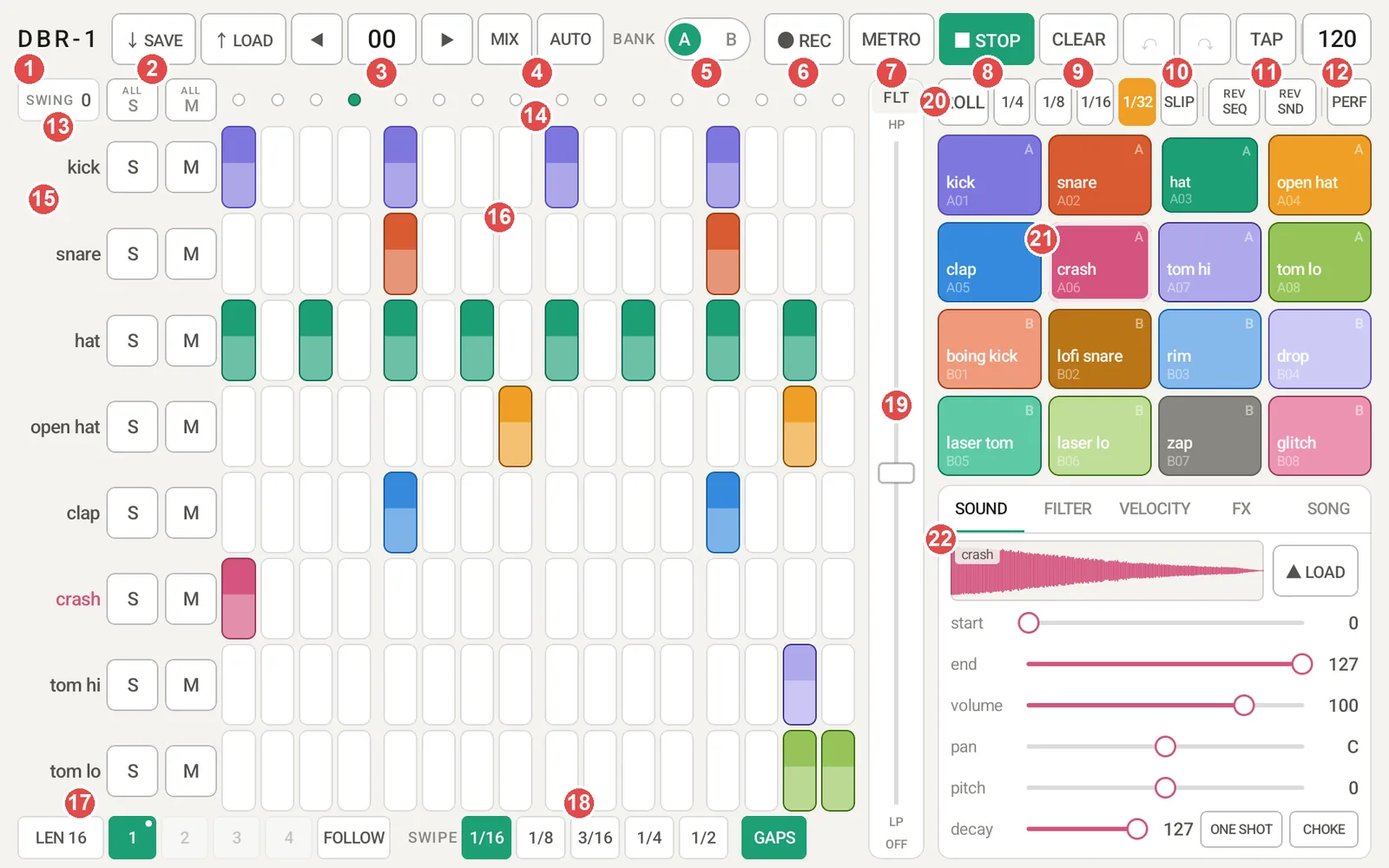
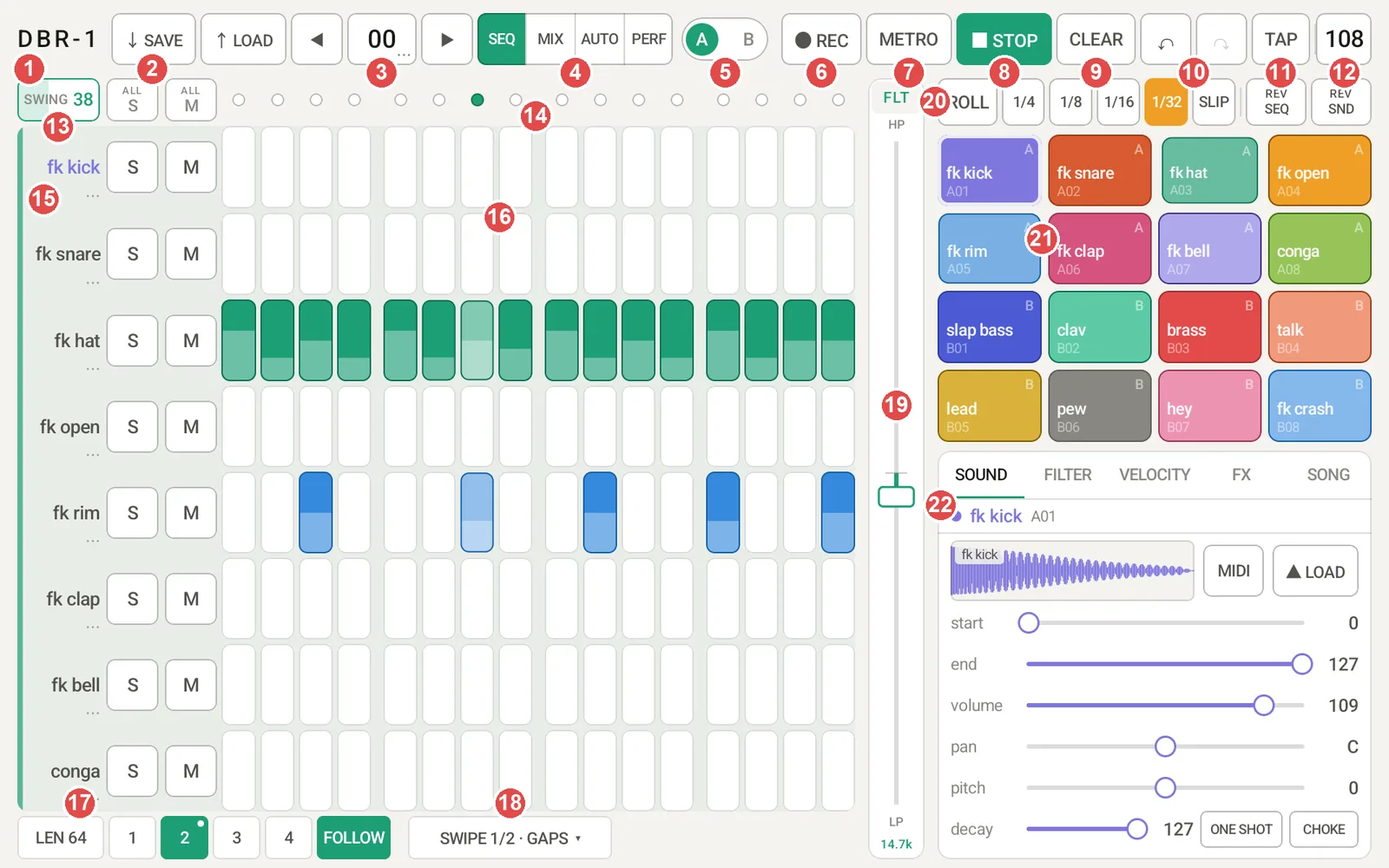
説明書: タブレットの導線の見直し（SEQ / MIX / AUTO / PERF・Settings…・SWIPE・SWING など、全体図）
Claude-Session: https://claude.ai/code/session_014nrG8LAda3EPv8TQp5hzGz

diff --git a/dbr1/manual/ja.html b/dbr1/manual/ja.html
@@ -42,11 +42,11 @@
 <figure><img src="img/tablet_overview.webp" alt="タブレットの画面"></figure>
 <table>
 <tr><th class="n">#</th><th>名前</th><th>はたらき</th></tr>
-<tr><td class="n"><span class="num">1</span></td><td>ロゴ</td><td>タップでメニュー: この説明書（Manual）、MIDI の設定（MIDI…）、オーディオの入出力（Audio I/O…）、オートメーションの動きの表示（Animate automation）、トラック名に触れたとき・ステップを入れたときに音を鳴らすか（Sound on track tap / Sound on step input）、STOP の後の PLAY を頭から / 続きから（After STOP）、再生中のパターンの切り替えのタイミング（Pattern switch）、スマートフォンと同じ配置にする（Phone layout）、アプリの情報（About）</td></tr>
+<tr><td class="n"><span class="num">1</span></td><td>ロゴ</td><td>タップでメニュー: この説明書（<b>Manual</b>）、デモソング（<b>Demo songs…</b>）、ジャンルのテンプレート（<b>Templates…</b>）、設定（<b>Settings…</b>）、このアプリについて（<b>About</b>）。<b>Settings…</b> には、MIDI の設定（MIDI…）・オーディオの入出力（Audio I/O…）、STOP の後の PLAY を頭から / 続きから（After STOP）、再生中のパターンの切り替えのタイミング（Pattern switch）、トラック名に触れたとき・ステップを入れたときに音を鳴らすか（Sound on track tap / Sound on step input）、オートメーションの動きの表示（Animate automation）、スマートフォンと同じ配置にする（Phone layout）が、それぞれ短い説明つきで並びます。初めて起動したときは、デモ曲を聴く / テンプレートから始める / そのまま始める、を選ぶカードが出ます</td></tr>
 <tr><td class="n"><span class="num">2</span></td><td>SAVE / LOAD</td><td>プロジェクト・パターン・キットの保存と読み込み（→ <a href="#save">10</a>）。LOAD の Templates… でジャンルの定番ビート（→ <a href="#templates">2</a>）、Demo songs… でデモソング（→ <a href="#demosongs">2</a>）</td></tr>
 <tr><td class="n"><span class="num">3</span></td><td>パターン番号</td><td>◀ ▶ で切り替え（00〜99）。数字のタップで直接入力、長押しでコピー / ペースト / 消去（FX だけのコピー / ペーストも）</td></tr>
-<tr><td class="n"><span class="num">4</span></td><td>MIX / AUTO</td><td>MIX = ステップの画面とミキサーの切り替え（→ <a href="#mixer">ミキサー</a>）、AUTO = オートメーションの画面（→ <a href="#automation">オートメーション</a>）。ミキサー・AUTO・PERF の画面では、端末の「戻る」でその画面を閉じます</td></tr>
-<tr><td class="n"><span class="num">5</span></td><td>BANK A / B</td><td>表示するトラック（A01〜A08 / B01〜B08）の切り替え</td></tr>
+<tr><td class="n"><span class="num">4</span></td><td>SEQ / MIX / AUTO / PERF</td><td>左の大きな場所に出す画面の切り替え（今の画面が点灯）。SEQ = ステップ、MIX = ミキサー（→ <a href="#mixer">ミキサー</a>）、AUTO = オートメーション（→ <a href="#automation">オートメーション</a>）、PERF = パフォーマンス画面（→ <a href="#performscreen">7</a>）。ミキサー・AUTO・PERF の画面では、端末の「戻る」でその画面を閉じます</td></tr>
+<tr><td class="n"><span class="num">5</span></td><td>BANK A / B</td><td>表示するトラック（A01〜A08 / B01〜B08）の切り替え。今のバンクは、トラックの並びの背景の色（A = 緑、B = 紫）と左の帯でも分かります。パッドで別のバンクのトラックを選ぶとバンクも切り替わり、スイッチと帯が少しの間光ります</td></tr>
 <tr><td class="n"><span class="num">6</span></td><td>REC</td><td>録音の待機。点灯中に再生してパッドを叩くと、ステップに記録されます（→ <a href="#rec">4</a>）</td></tr>
 <tr><td class="n"><span class="num">7</span></td><td>METRO</td><td>メトロノームの ON / OFF</td></tr>
 <tr><td class="n"><span class="num">8</span></td><td>PLAY / STOP</td><td>再生と停止。止めた後の PLAY は、既定では頭から再生します。メニューの <b>After STOP</b> を <b>continue</b> にすると、止めた位置の続きから再生します（パターン・ソングの行がそのままのとき。止めている間にパターンを選び直すと頭から。ソングを最後まで再生したときも頭から。MIDI クロックを送っていれば、位置（Song Position Pointer）と Continue を送ります）</td></tr>
@@ -54,16 +54,16 @@
 <tr><td class="n"><span class="num">10</span></td><td>↶ ↷</td><td>元に戻す / やり直す（最大 100 回）</td></tr>
 <tr><td class="n"><span class="num">11</span></td><td>TAP</td><td>リズムに合わせて叩くとテンポを設定</td></tr>
 <tr><td class="n"><span class="num">12</span></td><td>BPM</td><td>テンポ。タップでスライダー、長押しで数字入力（→ <a href="#tempo">9</a>）</td></tr>
-<tr><td class="n"><span class="num">13</span></td><td>SWING / ALL S / ALL M</td><td>スウィング（横にドラッグ）と、バンク全体のソロ / ミュート</td></tr>
+<tr><td class="n"><span class="num">13</span></td><td>SWING / ALL S / ALL M</td><td>スウィング（タップでスライダー、横にドラッグでも変更）と、バンク全体のソロ / ミュート</td></tr>
 <tr><td class="n"><span class="num">14</span></td><td>再生位置</td><td>今鳴っているステップ。録音のカウントイン中は赤く光ります。鳴ったステップのボタンもパッドと同じように一瞬光ります</td></tr>
-<tr><td class="n"><span class="num">15</span></td><td>トラック名・S・M</td><td>タップで選択（その音が鳴ります）、長押しでメニュー（→ <a href="#track">3</a>）。S = ソロ、M = ミュート</td></tr>
+<tr><td class="n"><span class="num">15</span></td><td>トラック名・S・M</td><td>タップで選択（その音が鳴ります）、長押しでメニュー（→ <a href="#track">3</a>）。名前の下の <b>⋯</b> は長押しでメニューが出る印（パターン番号も同じ）。S = ソロ、M = ミュート</td></tr>
 <tr><td class="n"><span class="num">16</span></td><td>ステップ</td><td>タップで ON / OFF。中のバーの高さは音の強さ（ベロシティ）</td></tr>
 <tr><td class="n"><span class="num">17</span></td><td>LEN・ページ・FOLLOW</td><td>パターンの長さ（1〜64 ステップ）、表示するページ（1〜4）、ページを再生位置に合わせるか</td></tr>
-<tr><td class="n"><span class="num">18</span></td><td>SWIPE・GAPS</td><td>なぞって入力するときの間隔（→ <a href="#beat">2</a>）</td></tr>
+<tr><td class="n"><span class="num">18</span></td><td>SWIPE</td><td>なぞって入力するときの間隔と GAPS。タップで説明つきのメニュー（→ <a href="#beat">2</a>）</td></tr>
 <tr><td class="n"><span class="num">19</span></td><td>FLT（全体フィルター）/ USER</td><td>上へ動かすとハイパス、下へ動かすとローパス。上の名前のタップで USER1・USER2 …（割り当てたパラメーターの足し引き）に切り替え、長押しで割り当て（→ <a href="#macro">7</a>）</td></tr>
-<tr><td class="n"><span class="num">20</span></td><td>ROLL・SLIP・REV・PERF</td><td>演奏用のボタン（→ <a href="#perform">7</a>）。PERF でパフォーマンス画面（→ <a href="#performscreen">7</a>）</td></tr>
-<tr><td class="n"><span class="num">21</span></td><td>パッド</td><td>叩くと鳴り、そのトラックを選択します。再生中は鳴ったトラックのパッドが光ります。右下の数字はノート番号（MIDI… の NOTES の対応。MIDI の機器から鳴らすときの番号・外へ送る番号）。パッドに MIDI を割り当てていれば「MIDI 60」のように、送るノート（和音は根音）を出します</td></tr>
-<tr><td class="n"><span class="num">22</span></td><td>タブ</td><td>SOUND / FILTER / VELOCITY / FX / SONG の切り替え</td></tr>
+<tr><td class="n"><span class="num">20</span></td><td>ROLL・SLIP・REV</td><td>演奏用のボタン（→ <a href="#perform">7</a>）</td></tr>
+<tr><td class="n"><span class="num">21</span></td><td>パッド</td><td>叩くと鳴り、そのトラックを選択します（別のバンクのパッドならバンクも切り替わります）。再生中は鳴ったトラックのパッドが光ります。MIDI の機器をつないでいると、右下にノート番号（MIDI… の NOTES の対応。MIDI の機器から鳴らすときの番号・外へ送る番号）が出ます。パッドに MIDI を割り当てていれば「MIDI 60」のように、送るノート（和音は根音）を出します</td></tr>
+<tr><td class="n"><span class="num">22</span></td><td>タブ</td><td>SOUND / FILTER / VELOCITY / FX / SONG の切り替え。タブの下に、いま触っているトラックの名前と色が出ます</td></tr>
 </table>
 
 <h3>スマートフォン</h3>
@@ -82,7 +82,7 @@
 <figure><img src="img/phone_sound.webp" alt="SOUND 画面"><figcaption>SOUND など: 左のリストでトラックを選んで設定</figcaption></figure>
 <figure><img src="img/phone_mix.webp" alt="MIX 画面"><figcaption>MIX: ミキサー（EQ はボタンでフェーダーと切り替え）</figcaption></figure>
 </div>
-<div class="tip">タブレットでも、ロゴのメニューの <b>Phone layout</b> でこの配置にできます（ボタンや文字はスマートフォンより大きめ、1 画面ずつ大きく表示。PADS のパッドが大きくなるので演奏向き）。端末ごとに保存され、≡ のメニューの <b>Tablet layout</b> で戻ります。</div>
+<div class="tip">タブレットでも、ロゴのメニューの Settings… の <b>Phone layout</b> でこの配置にできます（ボタンや文字はスマートフォンより大きめ、1 画面ずつ大きく表示。PADS のパッドが大きくなるので演奏向き）。端末ごとに保存され、≡ のメニューの <b>Tablet layout</b> で戻ります。</div>
 <div class="tip">横幅の狭いスマートフォンでは、ROLL の横の <span class="key">⋯</span> にロールの長さ・SLIP・REV がまとまります。パターン番号の ◀ ▶ は省かれるので、数字をタップして入力してください。</div>
 </section>
 
@@ -150,7 +150,7 @@
 <p>1〜4 のボタンで表示するページを切り替えます（再生中のページには点が付きます）。ページの長押しで、そのページ（A / B 全トラック）のコピー / ペースト / 消去ができます。</p>
 <p><span class="key">FOLLOW</span> を ON にすると、再生中は表示するページが再生位置に付いていきます（演奏向け）。OFF のときは選んだページのままです（打ち込み向け）。</p>
 <h3>スウィング</h3>
-<p><span class="key">SWING</span> を横にドラッグして 0〜100 を設定します。裏の 16 分音符が遅れて、跳ねたノリになります。パターンごとの設定です。</p>
+<p><span class="key">SWING</span> をタップすると、スライダー（−1 / +1 付き）が出ます。横にドラッグしても変えられます（0〜100）。裏の 16 分音符が遅れて、跳ねたノリになります。パターンごとの設定です。</p>
 </section>
 
 <!-- ============================================================ -->
@@ -173,7 +173,7 @@
 <ul>
   <li><b>S（ソロ）</b>: バンクの中でソロのトラックだけを鳴らします。<b>M（ミュート）</b>: 鳴らしません。</li>
   <li><b>ALL S / ALL M</b>: 表示中のバンクをまとめて切り替えます（1 つでも ON なら全部 OFF、なければ全部 ON）。</li>
-  <li>トラック名をタップすると、そのトラックの音が鳴ります。止まっているときにステップを入れたときも、その強さで鳴ります（再生中は、シーケンサがその位置で鳴らします）。鳴らしたくないとき（演奏中に触っても邪魔にならないように）は、ロゴ / ≡ のメニューの <b>Sound on track tap</b>・<b>Sound on step input</b> を OFF にしてください。</li>
+  <li>トラック名をタップすると、そのトラックの音が鳴ります。止まっているときにステップを入れたときも、その強さで鳴ります（再生中は、シーケンサがその位置で鳴らします）。鳴らしたくないとき（演奏中に触っても邪魔にならないように）は、ロゴのメニューの Settings…（スマートフォンは ≡ のメニュー）の <b>Sound on track tap</b>・<b>Sound on step input</b> を OFF にしてください。</li>
   <li>色は名前と同じくキット（音の設定）の一部です。プロジェクト・キットのファイルに保存され、↶ で戻せます。Swap with… で入れ替えると色も一緒に移り、LOAD の「Built-in kit」で最初の色に戻ります。</li>
 </ul>
 <h3 id="triplet">3 連符（Steps）</h3>
@@ -413,7 +413,7 @@
 <figure><img src="img/perform_mixer.webp" alt="パフォーマンス画面の 2 ページ目"><figcaption>2 ページ目（最初の配置）: 16 トラックのミニミキサー</figcaption></figure>
 <figure><img src="img/perform_mpc.webp" alt="パフォーマンス画面の 3 ページ目"><figcaption>3 ページ目（最初の配置）: MPC 風</figcaption></figure>
 <figure><img src="img/perform_midicon.webp" alt="パフォーマンス画面の 4 ページ目"><figcaption>4 ページ目（最初の配置）: MIDI コントローラー風（MIDI… の OUT の機器を CH 16 で操作）</figcaption></figure>
-<p>シーケンスを鳴らしながら演奏するための画面です。18×10 のマス目に、ボタン・フェーダー・ノブを好きな大きさで並べて、自分用の演奏の画面を作れます。タブレットはパッドの上の <span class="key">PERF</span>、スマートフォンは左のタブの <b>PERF</b>（PADS の下）で開きます。タブレットでは右上の <span class="key">✕</span> で元の画面に戻ります。</p>
+<p>シーケンスを鳴らしながら演奏するための画面です。18×10 のマス目に、ボタン・フェーダー・ノブを好きな大きさで並べて、自分用の演奏の画面を作れます。タブレットはヘッダーの <span class="key">PERF</span>、スマートフォンは左のタブの <b>PERF</b>（PADS の下）で開きます。タブレットでは右上の <span class="key">✕</span> で元の画面に戻ります。</p>
 <ul>
   <li>ページは 1〜4 です。配置は端末に保存され、どのプロジェクトを開いても同じです（タブレットとスマートフォンの配置は別々）。最初は 1 ページ目の左にボタン 16 個（ROLL・MUTE・シーン・パターン・REV・FX）、真ん中に FLT と MASTER（音量）のフェーダー、右にリバーブ・ディレイのノブ 4 つが並んでいます。2 ページ目は 16 トラックのミニミキサーです（トラックごとに縦 1 列で、上から EQ HI / MID / LO のノブ・ミュート（M）・PAN のノブ・音量のフェーダー。右端に FLT と MASTER）。3 ページ目は MPC 風（上に横長のタッチストリップ（FLT）とノブ 4 つ（FLT・REV MIX・DLY MIX・DLY FB）、NOTE RPT（1/16 の ROLL、押している間）と REV SEQ、左下に音量のフェーダー 5 本（A01・A02・A03・B01・MASTER）、右下に 4×4 のパッド（下の段から A01〜））。4 ページ目は MIDI コントローラー風で、MIDI… の OUT の機器を操作します（すべて CH 16: ノブ 8 つ = CC 22〜29、フェーダー 8 本 = CC 31〜38、ボタン 8 つ = ノート C4〜G4、右端にピッチベンド）。以前の版から使っている配置でも、3・4 ページ目が空なら 1 回だけ入ります。EDIT の ⋯ の「Default layout on this page」でいつでもそのページの最初の配置に戻せます。<br><small>※ 以前の版（8×4 のマス目）で作った配置は、そのまま 18×10 に引き伸ばして表示します。</small></li>
   <li>1 マスはボタンには小さめですが、フェーダーにはちょうどよい太さです。ボタンは 2×2 マスくらいが押しやすい大きさです。小さいノブは文字を減らしてノブを大きく描きます。<b>フェーダー・ノブを触っている間は、上に名前と値が大きく出ます</b>（指で隠れても読めます）。フェーダーは横長に置くと横向きになります（左 = 0、右 = 最大。パンなど真ん中のあるものは真ん中から左右）。<b>ダブルタップ</b>で 0 に戻ります（パン・EQ・ピッチなど真ん中のあるもの、FLT・USER は真ん中）。スマートフォンで 1 マスにしたノブは名前・値を出さずノブだけ、ボタンは小さな文字で表示します。</li>
@@ -453,7 +453,7 @@
 <ul>
   <li><b>CHANNEL</b>: 送るチャンネル。<b>複数選べます</b>（数字のタップで足す / 外す。例: 1・3・10 に同じものを送る）。<b>ALL</b> は 1〜16 の全部（もう一度押すと 1 だけに戻る）。最後の 1 つは外せません。部品には「CH 1,3,10」「CH 1-4,10」（1〜4 と 10）のように番号で表示し、4 つ以上に分かれるときは「CH 1,3 +3」（ほかに 3 つ）と出ます。</li>
   <li><b>CC NUMBER / NOTE / PROGRAM</b>: 送る番号（0〜127）。ノートは音名も出ます（60 = C4）。</li>
-  <li><b>SEND TO</b>: 送り先。<b>複数選べます</b>（タップで足す / 外す。1 つの部品で 2 台のシンセを同時に動かす、など）。<b>MIDI OUTPUT</b>（既定）= ロゴ（スマートフォンは ≡）の「MIDI…」の OUT で選んだ機器。ほかに、つながっている機器を部品ごとに選べます。出力が 2 つ以上ある MIDI インターフェースは「機器名 · OUT 2」のようにポートごとに出るので、シンセ A は OUT 1、エフェクター B は OUT 2、のように分けられます。送れないとき（出力を選んでいない・機器がつながっていない）は設定の画面に赤い字で出ます。</li>
+  <li><b>SEND TO</b>: 送り先。<b>複数選べます</b>（タップで足す / 外す。1 つの部品で 2 台のシンセを同時に動かす、など）。<b>MIDI OUTPUT</b>（既定）= ロゴのメニューの Settings…（スマートフォンは ≡ のメニュー）の「MIDI…」の OUT で選んだ機器。ほかに、つながっている機器を部品ごとに選べます。出力が 2 つ以上ある MIDI インターフェースは「機器名 · OUT 2」のようにポートごとに出るので、シンセ A は OUT 1、エフェクター B は OUT 2、のように分けられます。送れないとき（出力を選んでいない・機器がつながっていない）は設定の画面に赤い字で出ます。</li>
   <li>ON RELEASE の RETURN: CC・AFTERTOUCH は触る前の値へ、CC PAN・PITCH BEND は真ん中へ戻ります（ピッチベンドのホイールのように使えます）。</li>
   <li>フェーダー・ノブの位置は保存しません（アプリを開き直すと 0、PAN・BEND は真ん中から）。同じ値は続けて送りません。</li>
   <li>シーケンスの MIDI 出力（MIDI… の OUTPUT CHANNEL）とは別に送るので、シーケンスを外部の音源で鳴らしながら、別のチャンネルのつまみを動かせます。MIDI クロックを SEND にすれば、DBR-1 のテンポに機材を合わせられます。</li>
@@ -472,7 +472,7 @@
 <ul>
   <li>パターンは 00〜99 の 100 個。各パターンがステップ・ベロシティ・長さ・スウィング・テンポ・エフェクトの設定・オートメーションを持ちます（音のキットは共通）。</li>
   <li>再生中にパターン番号を変えると、既定では<b>小節（パターン）の終わり</b>で切り替わります（待っている番号は枠が光ります）。停止中はすぐ切り替わります。</li>
-  <li>ロゴ（スマホは ≡）のメニューの <b>Pattern switch</b> で、再生中に切り替わるタイミングを選べます（タップで BAR → BEAT → NOW）。<b>BAR</b>（既定）= パターンの終わりで、次のパターンの頭から / <b>BEAT</b> = 次の拍で / <b>NOW</b> = 次の 16 分で。BEAT と NOW は再生位置をそのままに中身だけ入れ替えるので、リズムが途切れません（次のパターンのほうが短ければ、その長さで折り返した位置から）。パフォーマンス画面の PATTERN ボタンと合わせると、パターンを使ったリアルタイムの演奏ができます。</li>
+  <li>ロゴのメニューの Settings…（スマホは ≡ のメニュー）の <b>Pattern switch</b> で、再生中に切り替わるタイミングを選べます（タブレットは BAR / BEAT / NOW のボタン、スマホはタップで BAR → BEAT → NOW）。<b>BAR</b>（既定）= パターンの終わりで、次のパターンの頭から / <b>BEAT</b> = 次の拍で / <b>NOW</b> = 次の 16 分で。BEAT と NOW は再生位置をそのままに中身だけ入れ替えるので、リズムが途切れません（次のパターンのほうが短ければ、その長さで折り返した位置から）。パフォーマンス画面の PATTERN ボタンと合わせると、パターンを使ったリアルタイムの演奏ができます。</li>
   <li>長押しで、パターン全体のコピー / ペースト / 消去。<b>Copy FX only / Paste FX only</b> で、FX の設定（シーン A / B・センド量）だけを別のパターンへ写せます（ステップはそのまま、↶ で戻せます）。</li>
 </ul>
 </div>
@@ -511,7 +511,7 @@
   <li>優先の順は「動かしている最中のつまみ ＞ ロック ＞ 線 ＞ 元の値」です（メインフェーダーの USER は、その結果に足し引きします）。</li>
   <li>↶（元に戻す）で取り消せます。CLEAR（ヘッダー）はステップと一緒にロックも消し、線は残します。</li>
 </ul>
-<div class="tip">再生中は、オートメーションで動いている値が SOUND・FILTER・FX のつまみ、ミキサーの pan・EQ・フェーダー、全体フィルターのフェーダーにも表示されます。性能の低い端末で画面が重いときは、ロゴ（スマートフォンは ≡）のメニューの <b>Animate automation</b> を OFF にすると表示だけを止められます（音は変わりません。端末ごとの設定）。<br>ロックは Elektron のパラメーターロックに近い動きです。トラックごとの長さ（ポリリズム）を設定したトラックでは、DRAW の線の位置もそのトラックのステップで数えます。</div>
+<div class="tip">再生中は、オートメーションで動いている値が SOUND・FILTER・FX のつまみ、ミキサーの pan・EQ・フェーダー、全体フィルターのフェーダーにも表示されます。性能の低い端末で画面が重いときは、ロゴのメニューの Settings…（スマートフォンは ≡ のメニュー）の <b>Animate automation</b> を OFF にすると表示だけを止められます（音は変わりません。端末ごとの設定）。<br>ロックは Elektron のパラメーターロックに近い動きです。トラックごとの長さ（ポリリズム）を設定したトラックでは、DRAW の線の位置もそのトラックのステップで数えます。</div>
 </section>
 
 <!-- ============================================================ -->
@@ -598,7 +598,7 @@
 <!-- ============================================================ -->
 <section id="midi">
 <h2>11. MIDI と USB オーディオ</h2>
-<p>USB-MIDI の機器（パッドコントローラー・キーボード・オーディオインターフェースの MIDI 端子など）を USB でつなぐと、自動で使えるようになります。設定はロゴ（スマートフォンは ≡）のメニューの <b>MIDI…</b>。</p>
+<p>USB-MIDI の機器（パッドコントローラー・キーボード・オーディオインターフェースの MIDI 端子など）を USB でつなぐと、自動で使えるようになります。設定はロゴのメニューの Settings…（スマートフォンは ≡ のメニュー）の <b>MIDI…</b>。</p>
 <figure class="small"><img src="img/midi_dialog.webp" alt="MIDI の設定"></figure>
 <figure class="small"><img src="img/notes_edit.webp" alt="NOTES の EDIT"><figcaption>NOTES の EDIT…: パッドごとのノート番号（LEARN で MIDI の機器から）</figcaption></figure>
 <table>
@@ -643,7 +643,7 @@
 <h3>USB オーディオ</h3>
 <p>USB オーディオインターフェースや USB-C ヘッドホンは、挿すと自動でそちらから音が出ます。今の出力先は About（ロゴのメニュー）で確認できます。</p>
 <h3 id="multiout">マルチアウト（Audio I/O…）</h3>
-<p>出力が 3 チャンネル以上のオーディオインターフェース（例: Scarlett 6i6 は 6 チャンネル）なら、トラックごとに別の出力へ出して、ミキサーの別々のチャンネルで受けられます。ロゴ（スマートフォンは ≡）のメニューの <b>Audio I/O…</b> で設定します。</p>
+<p>出力が 3 チャンネル以上のオーディオインターフェース（例: Scarlett 6i6 は 6 チャンネル）なら、トラックごとに別の出力へ出して、ミキサーの別々のチャンネルで受けられます。ロゴのメニューの Settings…（スマートフォンは ≡ のメニュー）の <b>Audio I/O…</b> で設定します。</p>
 <figure class="small"><img src="img/audio_dialog.webp" alt="Audio I/O"><figcaption>Audio I/O。MULTI OUT: ON で、トラックごとに出力先を選べます</figcaption></figure>
 <table>
 <tr><th>項目</th><th>内容</th></tr>

diff --git a/dbr1/manual/en.html b/dbr1/manual/en.html
@@ -42,11 +42,11 @@
 <figure><img src="img/tablet_overview.webp" alt="Tablet screen"></figure>
 <table>
 <tr><th class="n">#</th><th>Name</th><th>What it does</th></tr>
-<tr><td class="n"><span class="num">1</span></td><td>Logo</td><td>Tap for the menu: this Manual, MIDI settings (MIDI…), audio inputs and outputs (Audio I/O…), moving knobs with automation (Animate automation), whether tapping a track name or entering a step plays the sound (Sound on track tap / Sound on step input), whether PLAY after STOP starts over or continues (After STOP), when a pattern change happens while playing (Pattern switch), the phone-style layout (Phone layout), About</td></tr>
+<tr><td class="n"><span class="num">1</span></td><td>Logo</td><td>Tap for the menu: this <b>Manual</b>, <b>Demo songs…</b>, genre <b>Templates…</b>, <b>Settings…</b> and <b>About</b>. <b>Settings…</b> gathers MIDI settings (MIDI…), audio inputs and outputs (Audio I/O…), whether PLAY after STOP starts over or continues (After STOP), when a pattern change happens while playing (Pattern switch), whether tapping a track name or entering a step plays the sound (Sound on track tap / Sound on step input), moving knobs with automation (Animate automation) and the phone-style screen (Phone layout), each with a short explanation. The first time you open DBR-1, a card lets you choose: listen to a demo song, start from a template, or start right away</td></tr>
 <tr><td class="n"><span class="num">2</span></td><td>SAVE / LOAD</td><td>Save and load projects, patterns and kits (→ <a href="#save">10</a>). LOAD → Templates… for classic genre beats (→ <a href="#templates">2</a>), Demo songs… for the demo songs (→ <a href="#demosongs">2</a>)</td></tr>
 <tr><td class="n"><span class="num">3</span></td><td>Pattern number</td><td>◀ ▶ to change (00–99). Tap the number to type it; long-press for Copy / Paste / Clear (also FX only)</td></tr>
-<tr><td class="n"><span class="num">4</span></td><td>MIX / AUTO</td><td>MIX switches between the step view and the mixer (→ <a href="#mixer">Mixer</a>); AUTO opens the automation view (→ <a href="#automation">Automation</a>). On the mixer, AUTO and PERF screens, the device Back button closes that screen</td></tr>
-<tr><td class="n"><span class="num">5</span></td><td>BANK A / B</td><td>Shows tracks A01–A08 or B01–B08</td></tr>
+<tr><td class="n"><span class="num">4</span></td><td>SEQ / MIX / AUTO / PERF</td><td>Chooses what the large area on the left shows (the current one lights up). SEQ = steps, MIX = mixer (→ <a href="#mixer">Mixer</a>), AUTO = automation (→ <a href="#automation">Automation</a>), PERF = performance screen (→ <a href="#performscreen">7</a>). On the mixer, AUTO and PERF screens, the device Back button closes that screen</td></tr>
+<tr><td class="n"><span class="num">5</span></td><td>BANK A / B</td><td>Shows tracks A01–A08 or B01–B08. The current bank also shows as the tint behind the tracks (A = green, B = purple) and the stripe on their left. Hitting a pad of the other bank switches the bank too, and the switch and stripe flash briefly</td></tr>
 <tr><td class="n"><span class="num">6</span></td><td>REC</td><td>Arms recording. Pads you hit while playing are recorded (→ <a href="#rec">4</a>)</td></tr>
 <tr><td class="n"><span class="num">7</span></td><td>METRO</td><td>Metronome on / off</td></tr>
 <tr><td class="n"><span class="num">8</span></td><td>PLAY / STOP</td><td>Start and stop. By default PLAY after STOP starts from the top. Set <b>After STOP</b> in the menu to <b>continue</b> to carry on from where you stopped (while the pattern / song row is unchanged; choosing a pattern while stopped, or playing a song to its end, starts over. When sending MIDI clock, DBR-1 sends the position (Song Position Pointer) and Continue)</td></tr>
@@ -54,16 +54,16 @@
 <tr><td class="n"><span class="num">10</span></td><td>↶ ↷</td><td>Undo / redo (up to 100 steps)</td></tr>
 <tr><td class="n"><span class="num">11</span></td><td>TAP</td><td>Tap along with the beat to set the tempo</td></tr>
 <tr><td class="n"><span class="num">12</span></td><td>BPM</td><td>Tempo. Tap for a slider, long-press to type a number (→ <a href="#tempo">9</a>)</td></tr>
-<tr><td class="n"><span class="num">13</span></td><td>SWING / ALL S / ALL M</td><td>Swing (drag sideways), and solo / mute for the whole bank</td></tr>
+<tr><td class="n"><span class="num">13</span></td><td>SWING / ALL S / ALL M</td><td>Swing (tap for a slider, or drag sideways), and solo / mute for the whole bank</td></tr>
 <tr><td class="n"><span class="num">14</span></td><td>Position</td><td>The step that is playing. Lights red during the recording count-in. The step buttons that play also flash, like the pads</td></tr>
-<tr><td class="n"><span class="num">15</span></td><td>Track name, S, M</td><td>Tap to select (the sound plays), long-press for the track menu (→ <a href="#track">3</a>). S = solo, M = mute</td></tr>
+<tr><td class="n"><span class="num">15</span></td><td>Track name, S, M</td><td>Tap to select (it plays the sound), long-press for the menu (→ <a href="#track">3</a>). The <b>⋯</b> under a name marks that a long-press opens a menu (the pattern number has it too). S = solo, M = mute</td></tr>
 <tr><td class="n"><span class="num">16</span></td><td>Steps</td><td>Tap to turn on / off. The bar inside shows the velocity</td></tr>
 <tr><td class="n"><span class="num">17</span></td><td>LEN, pages, FOLLOW</td><td>Pattern length (1–64 steps), the page on screen (1–4), and whether the page follows the playhead</td></tr>
-<tr><td class="n"><span class="num">18</span></td><td>SWIPE, GAPS</td><td>Spacing used when you swipe across steps (→ <a href="#beat">2</a>)</td></tr>
+<tr><td class="n"><span class="num">18</span></td><td>SWIPE</td><td>The spacing and GAPS used when you swipe across steps. Tap for a menu with explanations (→ <a href="#beat">2</a>)</td></tr>
 <tr><td class="n"><span class="num">19</span></td><td>FLT (master filter) / USER</td><td>Up = high-pass, down = low-pass. Tap the name above it to switch to USER1, USER2 … (adds to / subtracts from assigned parameters); long-press to assign (→ <a href="#macro">7</a>)</td></tr>
-<tr><td class="n"><span class="num">20</span></td><td>ROLL, SLIP, REV, PERF</td><td>Performance buttons (→ <a href="#perform">7</a>). PERF opens the performance screen (→ <a href="#performscreen">7</a>)</td></tr>
-<tr><td class="n"><span class="num">21</span></td><td>Pads</td><td>Hit to play the sound and select that track. While playing, the pad of each track that plays lights up. The number at the bottom right is the note number (MIDI… NOTES mapping: the note that plays the pad from a MIDI device and that is sent out). On a pad with MIDI assigned it reads like “MIDI 60”, the note it sends (the root for a chord)</td></tr>
-<tr><td class="n"><span class="num">22</span></td><td>Tabs</td><td>SOUND / FILTER / VELOCITY / FX / SONG</td></tr>
+<tr><td class="n"><span class="num">20</span></td><td>ROLL, SLIP, REV</td><td>Performance buttons (→ <a href="#perform">7</a>)</td></tr>
+<tr><td class="n"><span class="num">21</span></td><td>Pads</td><td>Hit to play the sound and select that track (a pad of the other bank switches the bank too). While playing, the pad of each track that plays lights up. With a MIDI device connected, the bottom right shows the note number (MIDI… NOTES mapping: the note that plays the pad from a MIDI device and that is sent out). On a pad with MIDI assigned it reads like “MIDI 60”, the note it sends (the root for a chord)</td></tr>
+<tr><td class="n"><span class="num">22</span></td><td>Tabs</td><td>Switch between SOUND, FILTER, VELOCITY, FX and SONG. The name and colour of the track you are editing show just below the tabs</td></tr>
 </table>
 
 <h3>Phone</h3>
@@ -82,7 +82,7 @@
 <figure><img src="img/phone_sound.webp" alt="SOUND view"><figcaption>SOUND and others: pick a track from the list on the left</figcaption></figure>
 <figure><img src="img/phone_mix.webp" alt="MIX view"><figcaption>MIX: the mixer (the EQ button swaps the faders for the EQ)</figcaption></figure>
 </div>
-<div class="tip">Tablets can use this layout too: <b>Phone layout</b> in the logo menu shows one screen at a time with larger buttons and text (the PADS screen gets big pads for playing). It is saved per device; <b>Tablet layout</b> in the ≡ menu switches back.</div>
+<div class="tip">Tablets can use this layout too: <b>Phone layout</b> in Settings… (logo menu) shows one screen at a time with larger buttons and text (the PADS screen gets big pads for playing). It is saved per device; <b>Tablet layout</b> in the ≡ menu switches back.</div>
 <div class="tip">On narrow phones, the roll length, SLIP and REV move into the <span class="key">⋯</span> button next to ROLL, and the pattern ◀ ▶ buttons are hidden — tap the number to type a pattern.</div>
 </section>
 
@@ -150,7 +150,7 @@
 <p>Buttons 1–4 choose the page on screen (a dot marks the page that is playing). Long-press a page to copy / paste / clear it (all A/B tracks).</p>
 <p>With <span class="key">FOLLOW</span> on, the page on screen follows the playhead during playback (for live play). With it off, the page you chose stays put (for programming).</p>
 <h3>Swing</h3>
-<p>Drag <span class="key">SWING</span> sideways (0–100). The off-beat 16th notes are delayed for a shuffled feel. Swing is saved per pattern.</p>
+<p>Tap <span class="key">SWING</span> for a slider (with −1 / +1), or drag it sideways (0–100). The off-beat 16th notes are delayed for a shuffled feel. Swing is saved per pattern.</p>
 </section>
 
 <!-- ============================================================ -->
@@ -173,7 +173,7 @@
 <ul>
   <li><b>S (solo)</b> plays only the soloed tracks of the bank. <b>M (mute)</b> silences a track.</li>
   <li><b>ALL S / ALL M</b> switch the whole bank on screen (if any is on, all go off; otherwise all go on).</li>
-  <li>Tapping a track name plays that track's sound. Entering a step while stopped plays it too, at the step's velocity (while playing, the sequencer plays it in time). To keep them silent — for example to select tracks while performing — turn off <b>Sound on track tap</b> and <b>Sound on step input</b> in the logo / ≡ menu.</li>
+  <li>Tapping a track name plays that track's sound. Entering a step while stopped plays it too, at the step's velocity (while playing, the sequencer plays it in time). To keep them silent — for example to select tracks while performing — turn off <b>Sound on track tap</b> and <b>Sound on step input</b> in Settings… (logo menu; ≡ menu on phones).</li>
   <li>The color belongs to the kit, like the name. It is saved in project and kit files and can be undone with ↶. Swap with… moves the color along, and LOAD → "Built-in kit" restores the original colors.</li>
 </ul>
 <h3 id="triplet">Triplets (Steps)</h3>
@@ -413,7 +413,7 @@
 <figure><img src="img/perform_mixer.webp" alt="Performance screen page 2"><figcaption>Page 2 (first layout): a 16-track mini mixer</figcaption></figure>
 <figure><img src="img/perform_mpc.webp" alt="Performance screen page 3"><figcaption>Page 3 (first layout): MPC-style</figcaption></figure>
 <figure><img src="img/perform_midicon.webp" alt="Performance screen page 4"><figcaption>Page 4 (first layout): MIDI-controller-style (controls the MIDI… OUT device on CH 16)</figcaption></figure>
-<p>A screen for playing live while the sequence runs. Place buttons, faders and knobs of any size on an 18×10 grid to build your own performance surface. On tablets, open it with <span class="key">PERF</span> above the pads; on phones, with the <b>PERF</b> tab on the left (below PADS). On tablets, <span class="key">✕</span> at the top right goes back.</p>
+<p>A screen for playing live while the sequence runs. Place buttons, faders and knobs of any size on an 18×10 grid to build your own performance surface. On tablets, open it with <span class="key">PERF</span> in the header; on phones, with the <b>PERF</b> tab on the left (below PADS). On tablets, <span class="key">✕</span> at the top right goes back.</p>
 <ul>
   <li>There are 4 pages. The layout is saved on the device and stays the same whichever project you open (tablet and phone layouts are separate). Page 1 starts with 16 buttons on the left (ROLL, MUTE, scene, pattern, REV and FX), the FLT and MASTER (volume) faders in the middle and four reverb / delay knobs on the right. Page 2 is a 16-track mini mixer (one column per track: EQ HI / MID / LO knobs, mute (M), a PAN knob and a volume fader; FLT and MASTER on the right). Page 3 is MPC-style: a wide touch strip (FLT) and four knobs (FLT, REV MIX, DLY MIX, DLY FB) on top, NOTE RPT (1/16 ROLL while held) and REV SEQ, five volume faders bottom left (A01, A02, A03, B01, MASTER) and 4×4 pads bottom right (A01… from the bottom row). Page 4 is MIDI-controller-style and controls the MIDI… OUT device (all on CH 16: 8 knobs = CC 22–29, 8 faders = CC 31–38, 8 buttons = notes C4–G4, pitch bend on the right). If you already had a layout from an earlier version, these are added once to pages 3 and 4 when they are empty. "Default layout on this page" in EDIT's ⋯ menu brings back that page's first layout at any time.<br><small>Layouts made with earlier versions (8×4 grid) are stretched to fit 18×10.</small></li>
   <li>A single cell is small for a button but just right for a fader; buttons are easiest to hit at about 2×2 cells. Small knobs drop text to leave room for the knob. <b>While you touch a fader or knob, its name and value appear above it</b> (readable even under your finger). A fader placed wider than tall turns horizontal (left = 0, right = max; centered values such as pan swing left and right from the middle). <b>Double-tap</b> to reset it to 0 (to the center for pan, EQ, pitch and other centered values, FLT and USER). On phones, a one-cell knob shows just the knob (no name or value) and a one-cell button uses small text.</li>
@@ -453,7 +453,7 @@
 <ul>
   <li><b>CHANNEL</b>: the channels to send on. <b>You can pick several</b> (tap a number to add or remove it, e.g. 1, 3 and 10 get the same message). <b>ALL</b> = all 16 (tap again to go back to 1 only). The last one can't be removed. The part shows the numbers, e.g. "CH 1,3,10" or "CH 1-4,10" (1 to 4 and 10); with four or more groups it shows "CH 1,3 +3" (three more).</li>
   <li><b>CC NUMBER / NOTE / PROGRAM</b>: the number to send (0–127). Notes also show their name (60 = C4).</li>
-  <li><b>SEND TO</b>: where to send. <b>You can pick several</b> (tap to add or remove, e.g. one control drives two synths at once). <b>MIDI OUTPUT</b> (default) = the device chosen as OUT in "MIDI…" (logo menu, or ≡ on phones). You can also pick any connected device per part. MIDI interfaces with several outputs list each port ("device · OUT 2"), so synth A can be on OUT 1 and effect B on OUT 2. If a part can't send (no output chosen, or the device is unplugged), its settings say so in red.</li>
+  <li><b>SEND TO</b>: where to send. <b>You can pick several</b> (tap to add or remove, e.g. one control drives two synths at once). <b>MIDI OUTPUT</b> (default) = the device chosen as OUT in "MIDI…" (Settings… in the logo menu, or ≡ on phones). You can also pick any connected device per part. MIDI interfaces with several outputs list each port ("device · OUT 2"), so synth A can be on OUT 1 and effect B on OUT 2. If a part can't send (no output chosen, or the device is unplugged), its settings say so in red.</li>
   <li>ON RELEASE RETURN: CC and AFTERTOUCH go back to the value before you touched them; CC PAN and PITCH BEND go back to the center (like a pitch-bend wheel).</li>
   <li>Fader and knob positions are not saved (they start at 0, or the center for PAN / BEND). The same value is not sent twice in a row.</li>
   <li>These are sent separately from the sequence's MIDI output (OUTPUT CHANNEL in MIDI…), so you can play the sequence on an external instrument while turning knobs on another channel. Set MIDI clock to SEND to keep the gear at DBR-1's tempo.</li>
@@ -472,7 +472,7 @@
 <ul>
   <li>There are 100 patterns (00–99). Each holds steps, velocities, length, swing, tempo, effect settings and automation (the kit is shared).</li>
   <li>Changing the pattern while playing switches <b>at the end of the bar (pattern)</b> by default (the queued number is outlined). When stopped, it switches at once.</li>
-  <li><b>Pattern switch</b> in the logo menu (≡ on phones) sets when the change happens while playing (tap to go BAR → BEAT → NOW). <b>BAR</b> (default) = at the end of the pattern, starting the next one from the top / <b>BEAT</b> = on the next beat / <b>NOW</b> = on the next 16th step. BEAT and NOW keep the playback position and only swap the contents, so the groove never breaks (if the next pattern is shorter, it wraps at its own length). Together with the PATTERN buttons on the performance screen, you can play live with patterns.</li>
+  <li><b>Pattern switch</b> in Settings… (logo menu; ≡ menu on phones) sets when the change happens while playing (BAR / BEAT / NOW buttons on tablets; tap to go BAR → BEAT → NOW on phones). <b>BAR</b> (default) = at the end of the pattern, starting the next one from the top / <b>BEAT</b> = on the next beat / <b>NOW</b> = on the next 16th step. BEAT and NOW keep the playback position and only swap the contents, so the groove never breaks (if the next pattern is shorter, it wraps at its own length). Together with the PATTERN buttons on the performance screen, you can play live with patterns.</li>
   <li>Long-press to copy / paste / clear a whole pattern. <b>Copy FX only / Paste FX only</b> copy just the effect settings (scenes A / B and sends) to another pattern, leaving its steps alone (↶ undoes it).</li>
 </ul>
 </div>
@@ -511,7 +511,7 @@
   <li>Priority: a control you are moving now &gt; lock &gt; line &gt; normal value (the main fader's USER adds to or subtracts from the result).</li>
   <li>Undo (↶) works. CLEAR in the header clears locks along with the steps and keeps lines.</li>
 </ul>
-<div class="tip">While playing, the values moved by automation also show on the SOUND, FILTER and FX knobs, the mixer's pan, EQ and faders, and the master filter fader. If the screen feels slow on a less powerful device, turn <b>Animate automation</b> OFF in the logo menu (≡ on phones) to stop only the display (the sound does not change; saved per device).<br>Locks work much like Elektron's parameter locks. On a track with its own length (polyrhythm), DRAW positions follow that track's steps.</div>
+<div class="tip">While playing, the values moved by automation also show on the SOUND, FILTER and FX knobs, the mixer's pan, EQ and faders, and the master filter fader. If the screen feels slow on a less powerful device, turn <b>Animate automation</b> OFF in Settings… (logo menu; ≡ menu on phones) to stop only the display (the sound does not change; saved per device).<br>Locks work much like Elektron's parameter locks. On a track with its own length (polyrhythm), DRAW positions follow that track's steps.</div>
 </section>
 
 <!-- ============================================================ -->
@@ -598,7 +598,7 @@
 <!-- ============================================================ -->
 <section id="midi">
 <h2>11. MIDI and USB audio</h2>
-<p>Connect a USB-MIDI device (pad controller, keyboard, the MIDI ports of an audio interface, …) and DBR-1 uses it automatically. Settings are under <b>MIDI…</b> in the logo menu (≡ on phones).</p>
+<p>Connect a USB-MIDI device (pad controller, keyboard, the MIDI ports of an audio interface, …) and DBR-1 uses it automatically. Settings are under <b>MIDI…</b> in Settings… (logo menu; ≡ menu on phones).</p>
 <figure class="small"><img src="img/midi_dialog.webp" alt="MIDI settings"></figure>
 <figure class="small"><img src="img/notes_edit.webp" alt="NOTES EDIT"><figcaption>NOTES EDIT…: the note for each pad (LEARN takes it from your MIDI controller)</figcaption></figure>
 <table>
@@ -643,7 +643,7 @@
 <h3>USB audio</h3>
 <p>USB audio interfaces and USB-C headphones take over the sound as soon as you plug them in. About (in the logo menu) shows the current output.</p>
 <h3 id="multiout">Multi-out (Audio I/O…)</h3>
-<p>With an audio interface that has more than 2 outputs (the Scarlett 6i6 has 6, for example), each track can go to its own output, so a mixer can take them on separate channels. Set it up under <b>Audio I/O…</b> in the logo menu (≡ on phones).</p>
+<p>With an audio interface that has more than 2 outputs (the Scarlett 6i6 has 6, for example), each track can go to its own output, so a mixer can take them on separate channels. Set it up under <b>Audio I/O…</b> in Settings… (logo menu; ≡ menu on phones).</p>
 <figure class="small"><img src="img/audio_dialog.webp" alt="Audio I/O"><figcaption>Audio I/O. With MULTI OUT: ON, each track can have its own output</figcaption></figure>
 <table>
 <tr><th>Item</th><th>What it does</th></tr>
